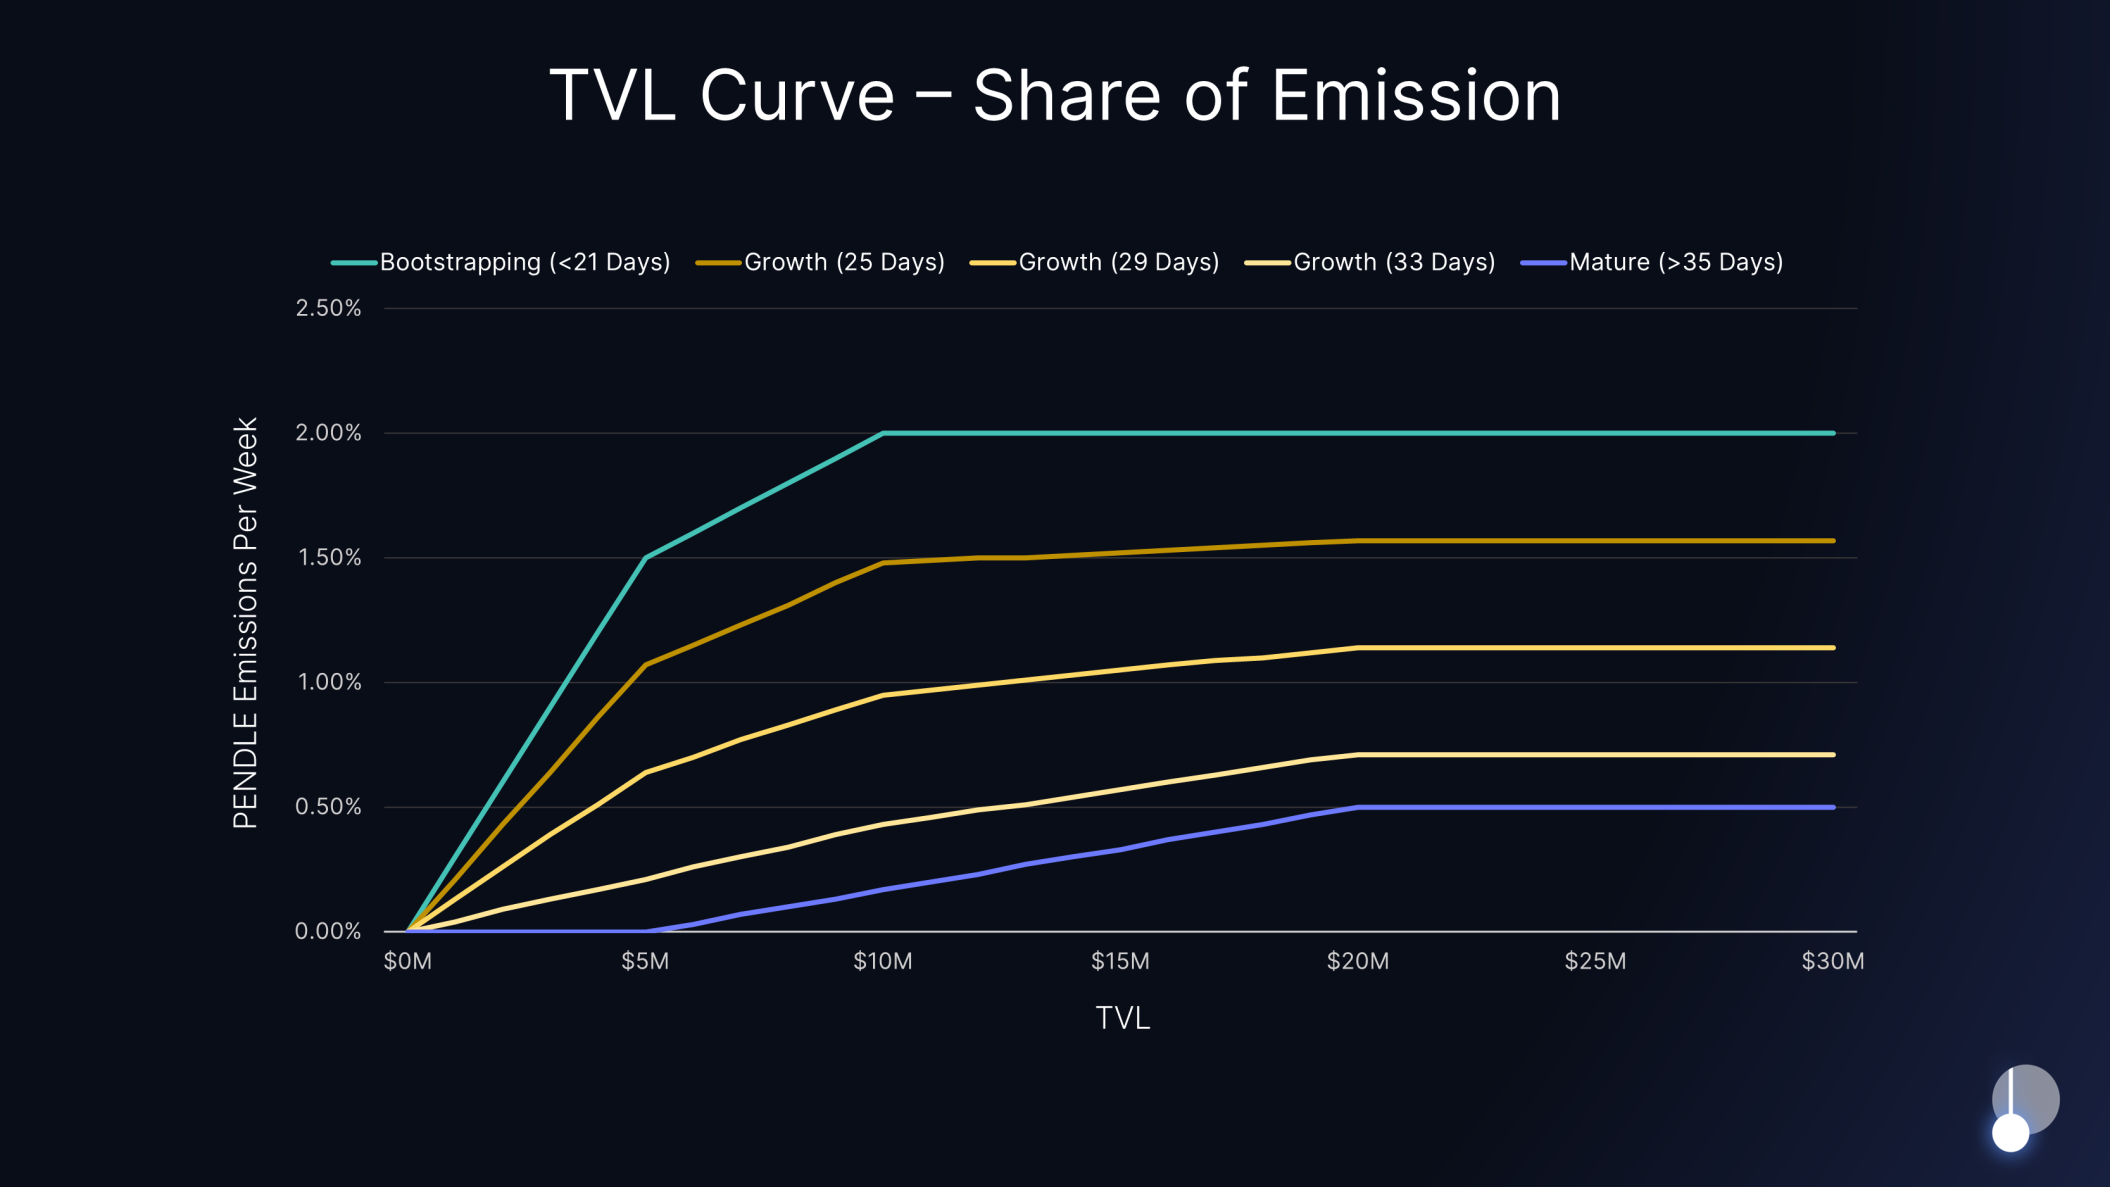
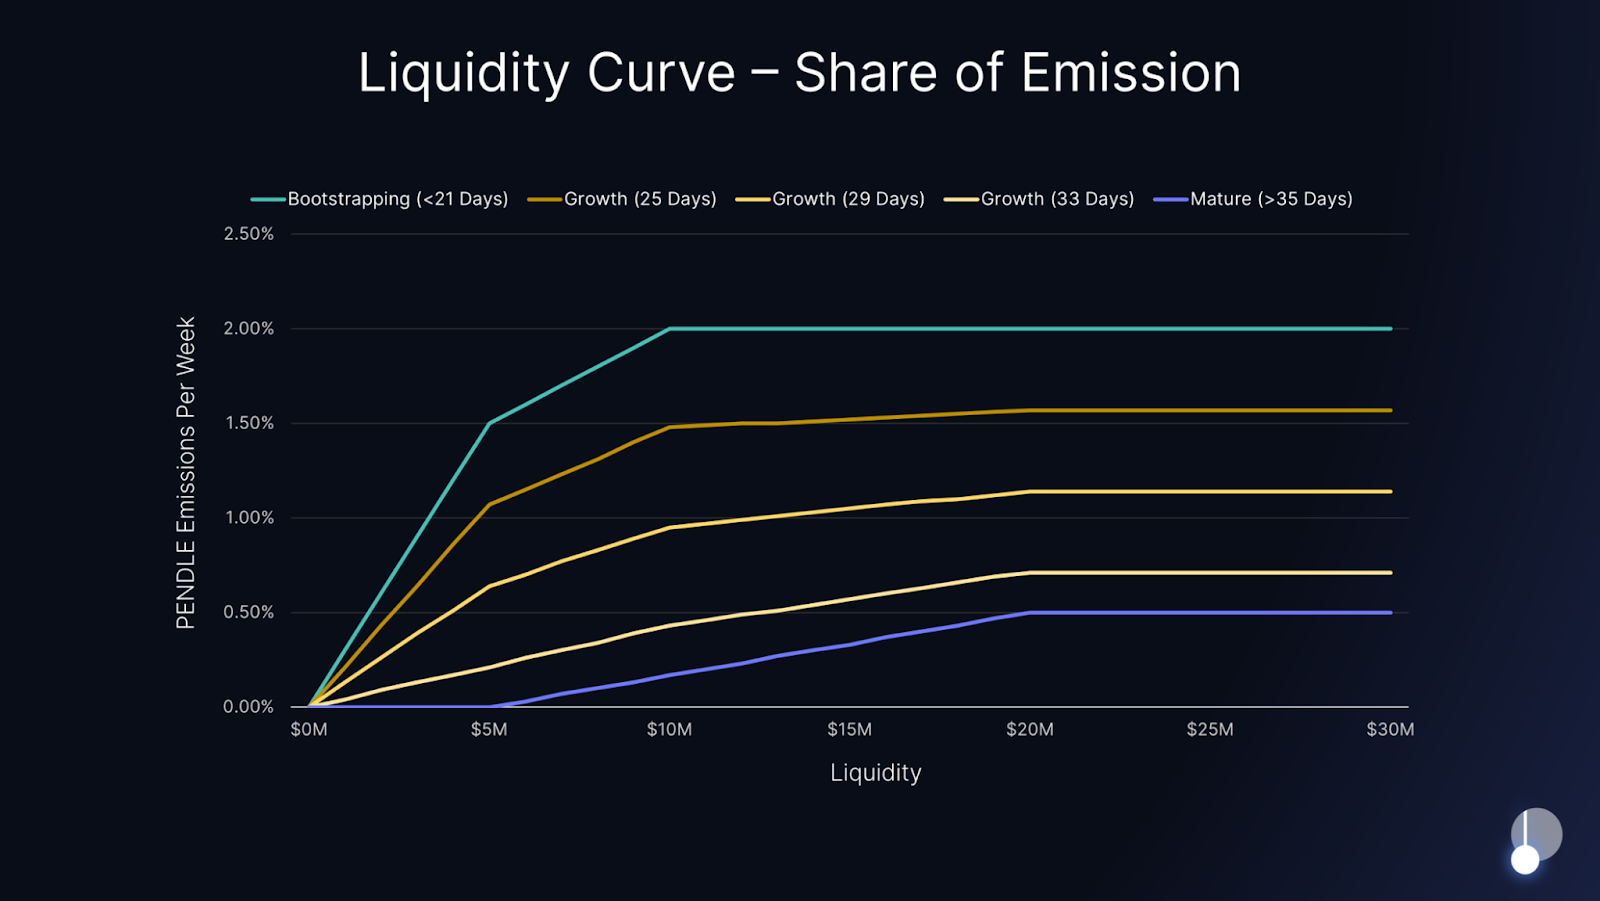
change to liquidity

diff --git a/docs/pendle-v2/ProtocolMechanics/Mechanisms/Incentives.md b/docs/pendle-v2/ProtocolMechanics/Mechanisms/Incentives.md
@@ -4,7 +4,7 @@ hide_table_of_contents: true
 
 # Incentives
 
-The algorithmic incentive model is an automated merit-based reward system that allocates PENDLE emissions to pools based on their performance. Pools that excel across TVL, swap fee, and co-incentive categories receive a higher share of rewards to recognize their contributions to the Pendle ecosystem.
+The algorithmic incentive model is an automated merit-based reward system that allocates PENDLE emissions to pools based on their performance. Pools that excel across liquidity, swap fee, and co-incentive categories receive a higher share of rewards to recognize their contributions to the Pendle ecosystem.
 
 The algorithmic incentive model has three reward streams:
 - Performance
@@ -13,30 +13,30 @@ The algorithmic incentive model has three reward streams:
 
 The maximum rewards per week across all streams is 90k PENDLE and each pool may receive up to 7.5% of total emissions from the Performance stream.
 
-Input data is based on a 2-week recency-weighted average that applies a 2x weighting on the most recent week and a 1x weighting on the previous week.
+Input data is based on a 2-week rolling recency-weighted average that applies a 2x weighting on the most recent 7 days and a 1x weighting on the 7 days preceding.
 
 ## Performance 
 
-Performance-based emissions are adapted to support pools based on their expected needs throughout their lifecycle: newer pools are aggressively incentivized based on liquidity pool TVL growth while mature pools are primarily incentivized based on swap fee performance.
+Performance-based emissions are adapted to support pools based on their expected needs throughout their lifecycle: newer pools are aggressively incentivized based on liquidity growth while mature pools are primarily incentivized based on swap fee performance.
 
 ![incentive timeline](/img/ProtocolMechanics/incentive_timeline.png "Incentive Timeline")
 
 The performance-based emission streams may receive up to the maximum weekly reward rate less emissions consumed by the co-incentive and discretionary streams.
 
-## TVL-Based Emissions
+## Liquidity-Based Emissions
 
-Pools receive PENDLE based on their LP TVL and time since deployment and is split into three phases:
+Pools receive PENDLE based on their LP liquidity and time since deployment and is split into three phases:
 1. Bootstrapping -> \<21 days since deployment
 2. Growth -> 21-35 days since deployment
 3. Mature -> 35 days since deployment
 
 ![Emission Curve](/img/ProtocolMechanics/emission_curve.png "Emission Curve")
 
-The Bootstrapping curve has an aggressive reward per TVL slope to support new pools during their critical early phases. As a pool moves closer to maturity, these benefits are gradually tapered with pool performance driven by fees instead.
+The Bootstrapping curve has an aggressive reward per liquidity slope to support new pools during their critical early phases. As a pool moves closer to maturity, these benefits are gradually tapered with pool performance driven by fees instead.
 
-The initial TVL parameters are as follows:
+The initial liquidity parameters are as follows:
 
-| TVL     | PENDLE Emission (\<21 Days Since Launch) | PENDLE Emission (\>35 Days Since Launch) |
+| Liquidity     | PENDLE Emission (\<21 Days Since Launch) | PENDLE Emission (\>35 Days Since Launch) |
 |---------|------------------------------------------|------------------------------------------|
 | 0–2m    | 0%–0.6%                                    | 0%                                        |
 | 2–5m    | 0.6%–1.5%                                | 0%                                        |
@@ -45,22 +45,22 @@ The initial TVL parameters are as follows:
 | 20m+    | 2%                                    | 0.5%                                      |
 
 ### Renewed Pools
-When a new maturity (‘Renewal Pool’) is launched for an existing pool (‘Maturing Pool’), the Renewal Pool benefits from the **Renewal TVL Curve** which overrides the default TVL curve. 
+When a new maturity (‘Renewal Pool’) is launched for an existing pool (‘Maturing Pool’) on the same chain, the Renewal Pool benefits from the **Renewal Liquidity Curve** which overrides the default Liquidity curve. 
 
 The Renewal Pools’ incentives are determined by:
 1. Maturing Pool’s days-to-maturity
-2. Renewal Pool’s TVL
+2. Renewal Pool’s Liquidity
 
-There are 3 phases for the **Renewal TVL Curve**:
+There are 3 phases for the **Renewal Liquidity Curve**:
 1. Pre-Maturity (\<14 days before the original pool matures)
 2. Transitional (0-14 days after the original pool matures)
 3. Post-Maturity (\>14 days after the original pool matures OR >14 days before the original pool matures)
 
 ![Renewal Curve](/img/ProtocolMechanics/renewal_curve.png "Renewal Curve")
 
-Each phase applies different emissions levels based on the Renewal Pool’s TVL:
+Each phase applies different emissions levels based on the Renewal Pool’s Liquidity:
 
-| TVL (Renewal Pool)    | PENDLE Emission (Pre-Maturity) | PENDLE Emission (Post-Maturity) |
+| Liquidity (Renewal Pool)    | PENDLE Emission (Pre-Maturity) | PENDLE Emission (Post-Maturity) |
 |---------|------------------------------------------|------------------------------------------|
 | 0–2m    | 0%–0.2%                                    | 0%                                        |
 | 2–5m    | 0.2%–0.5%                                | 0%                                        |
@@ -72,9 +72,9 @@ Each phase applies different emissions levels based on the Renewal Pool’s TVL:
 
 ![Renewal Emission](/img/ProtocolMechanics/renewal_emission.png "Renewal Emission")
 
-*Assume the USDe pool is maturing soon, with the renewal pool (next closest maturity) having $10M TVL. Under ordinary circumstances, it would receive 2.0% emission share under the default TVL Curve (Bootstrapping)*.
+*Assume the USDe pool is maturing soon, with the renewal pool (next closest maturity) having $10M liquidity. Under ordinary circumstances, it would receive 2.0% emission share under the default Liquidity Curve (Bootstrapping)*.
 
-*Since it is a renewal pool, it follows the Renewal TVL curve instead, determined by the maturing USDe pool’s day to maturity*:
+*Since it is a renewal pool, it follows the Renewal liquidity curve instead, determined by the maturing USDe pool’s day to maturity*:
 - \<14 days pre-maturity -> 1.0% emission share
 - 8 days post maturity -> 0.643% emission share
 - \>14 days post-maturity -> 0.167% emission share
@@ -85,9 +85,9 @@ This allows the protocol to focus stronger incentives on new asset launches, whi
 
 ## Fee-Based Emission
 
-Fee-based Emissions receives the remaining PENDLE balance that has not been paid out by the TVL substream.
+Fee-based Emissions receives the remaining PENDLE balance that has not been paid out by the liquidity substream.
 
-*For example, if 30,000 PENDLE is paid out for TVL, 50,000 PENDLE is available to be distributed for fees.*
+*For example, if 30,000 PENDLE is paid out for liquidity, 50,000 PENDLE is available to be distributed for fees.*
 
 A pool’s share of **swap fees** determines their pro-rata share of the fee-based emission budget with a maximum cap of **four times** its 2-week recency weighted swap fees.
 
